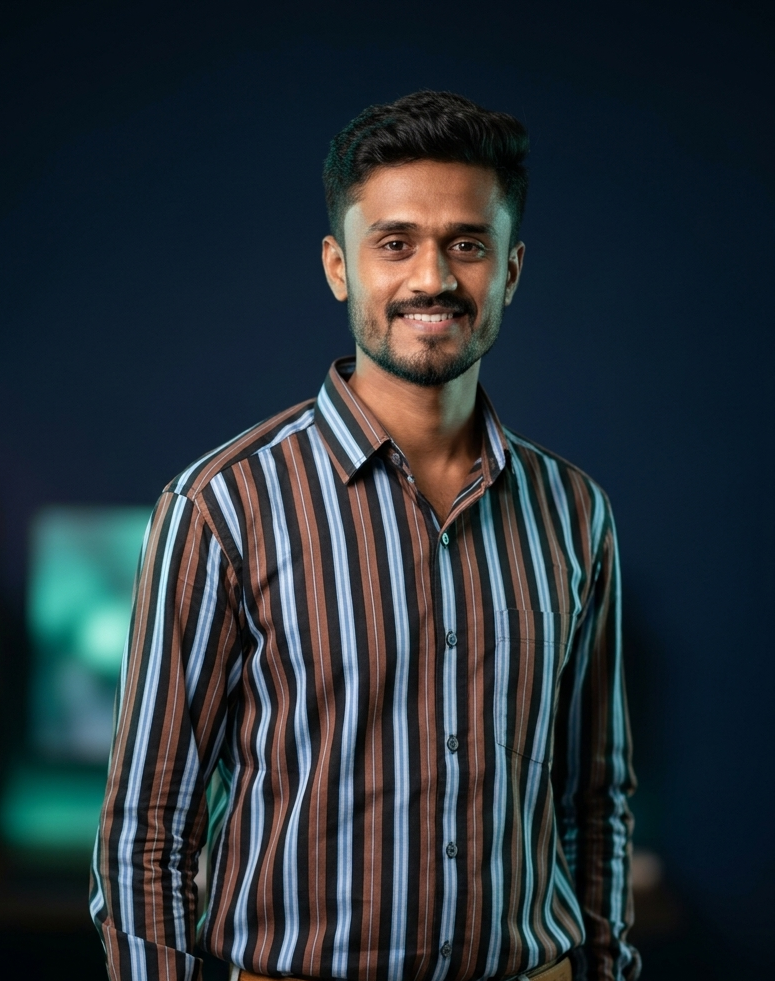
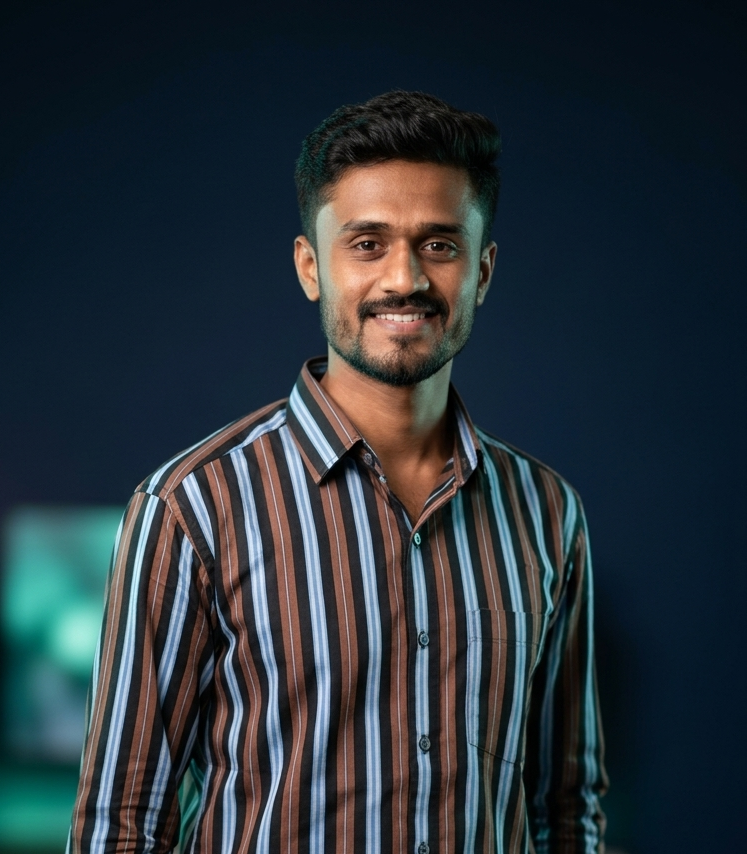
Updated Portfolio

diff --git a/src/components/portfolio/Experience.jsx b/src/components/portfolio/Experience.jsx
@@ -2,6 +2,19 @@ import { useReveal } from "./useReveal";
 
 const experiences = [
   {
+    title: "Java Full Stack Development Intern",
+    company: "JSpiders",
+    duration: "Jan 2026 – Present",
+    current: true,
+    points: [
+      "Building full-stack applications using Core Java, Spring Boot, Hibernate, and REST APIs across a structured, project-based curriculum",
+      "Developing MVC-architected web apps with HTML5, CSS3, and JavaScript, focused on reusable, component-based UI design",
+      "Designing normalized MySQL schemas and writing optimized SQL queries to support full CRUD workflows",
+      "Integrating Spring Boot backends with React.js frontends, persisting data through Hibernate ORM",
+      "Practicing Git-based version control and participating in peer code reviews for collaborative development",
+    ],
+  },
+  {
     title: "Full Stack Web Development Intern",
     company: "Aiva Solution Integrations",
     duration: "Nov 2024 – Jan 2025",

diff --git a/src/components/portfolio/Skills.jsx b/src/components/portfolio/Skills.jsx
@@ -5,7 +5,7 @@ const skillCards = [
   {
     Icon: Code2,
     title: "Programming Languages",
-    items: ["Java", "Core Java", "OOPs Concepts", "Collections Framework", "Exception Handling", "Multithreading"],
+    items: ["Java", "OOPs Concepts", "Collections Framework", "Exception Handling", "Multithreading", "File Handling", "Memory Management"],
   },
   {
     Icon: Library,